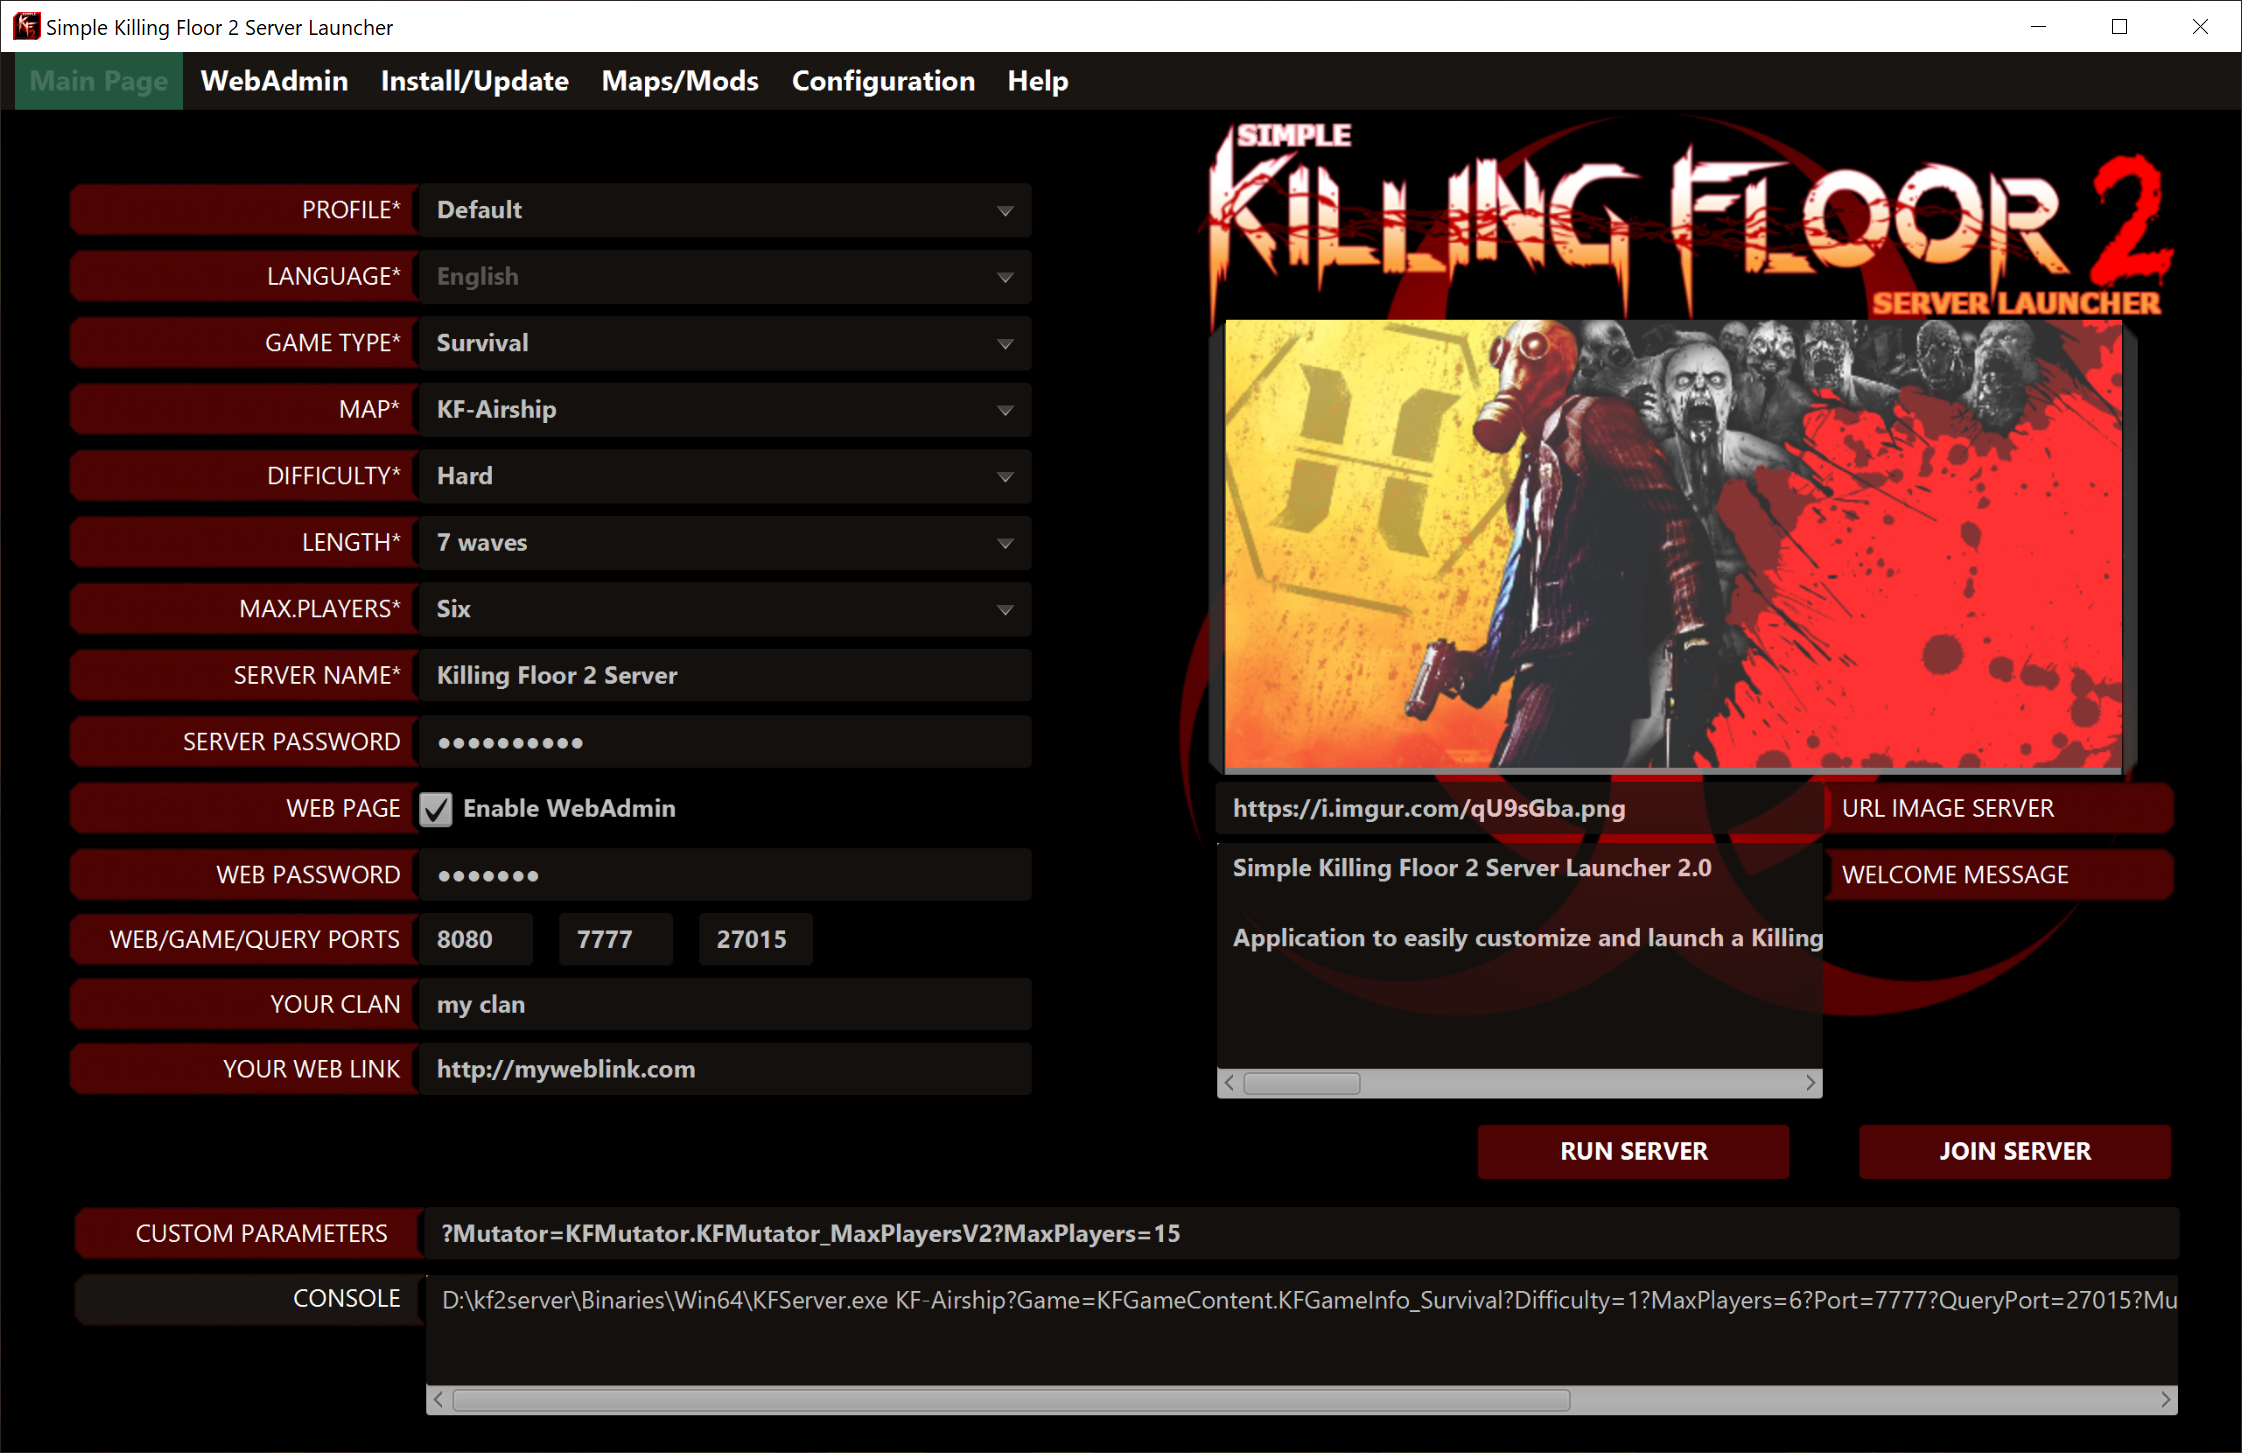
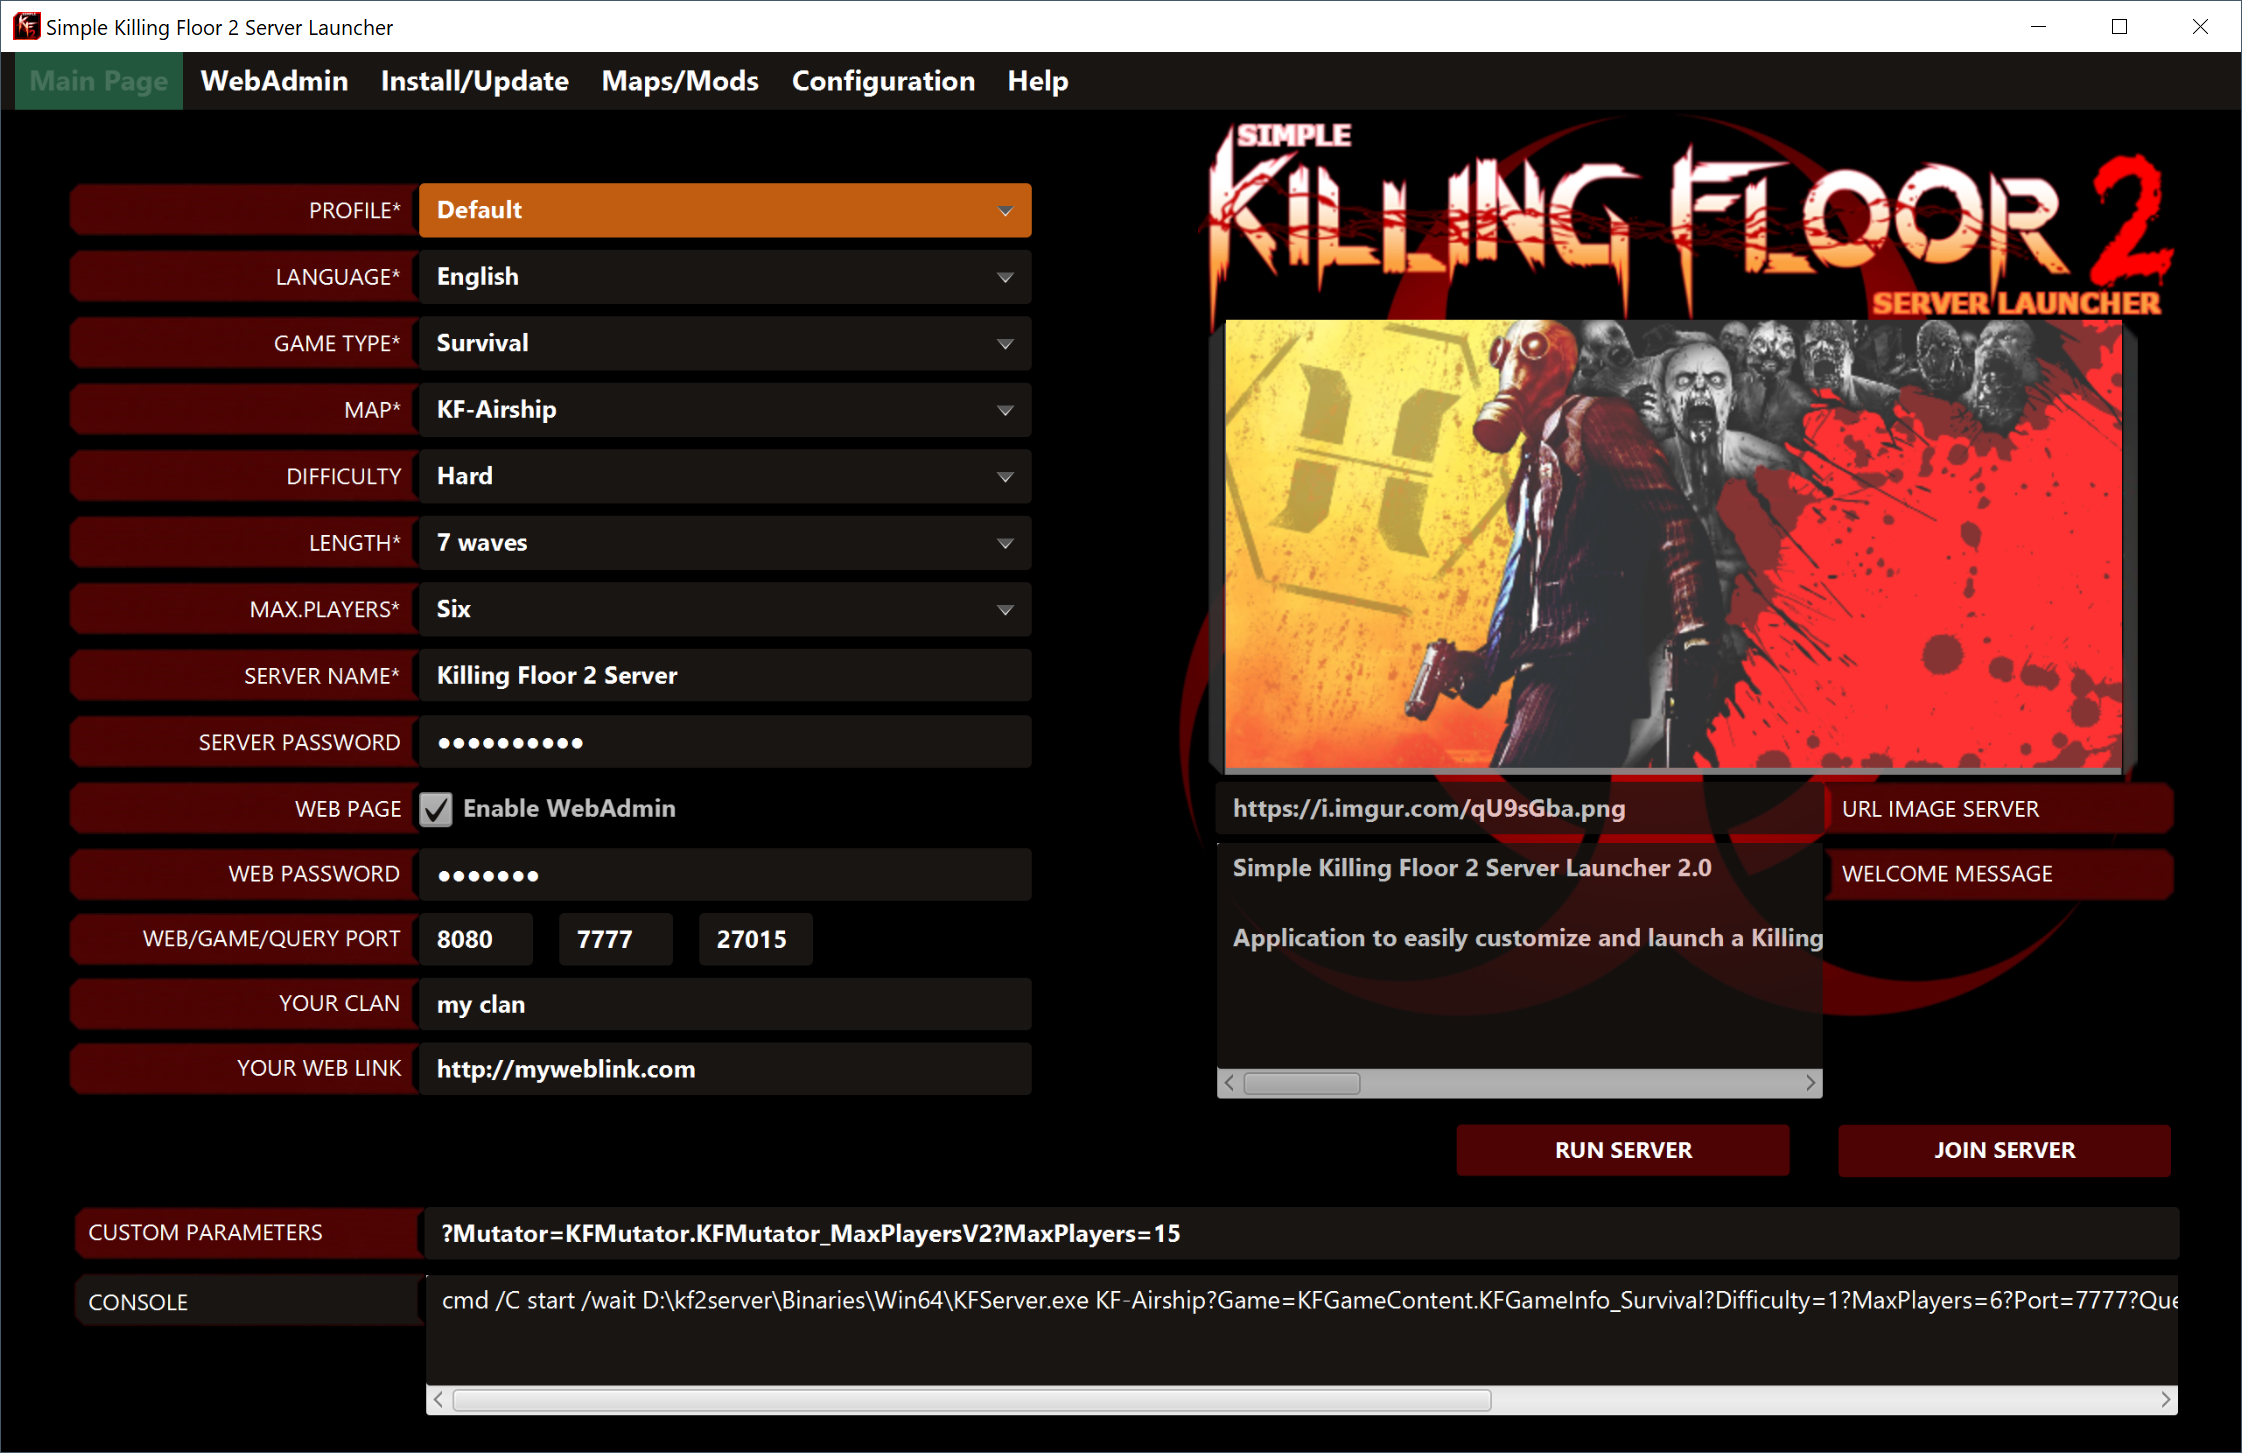
Some fixes. Updates in documentation and screenshots.

diff --git a/src/main/java/stories/profilesedition/ProfilesEditionController.java b/src/main/java/stories/profilesedition/ProfilesEditionController.java
@@ -184,23 +184,15 @@ public class ProfilesEditionController implements Initializable {
             if (selectedIndex >= 0) {
                 ProfileDto selectedProfile = profilesTable.getSelectionModel().getSelectedItem();
                 if (facade.deleteSelectedProfile(selectedProfile.getName(), installationFolder)) {
-                    profilesTable.getItems().remove(selectedIndex);
                     if (Session.getInstance().getActualProfile() != null && selectedProfile.getName().equalsIgnoreCase(Session.getInstance().getActualProfile().getName())) {
-                        if (profilesTable.getItems().size() > 0) {
-                            Session.getInstance().setActualProfile(profilesTable.getItems().get(0));
-                            propertyService.setProperty("properties/config.properties", "prop.config.lastSelectedProfile", profilesTable.getItems().get(0).getName());
-                        } else {
-                            Session.getInstance().setActualProfile(null);
-                            propertyService.removeProperty("properties/config.properties", "prop.config.lastSelectedProfile");
-                        }
+                        Session.getInstance().setActualProfile(null);
+                        propertyService.removeProperty("properties/config.properties", "prop.config.lastSelectedProfile");
                     }
                     if (Session.getInstance().getMapsProfile() != null && selectedProfile.getName().equalsIgnoreCase(Session.getInstance().getMapsProfile().getName())) {
-                        if (profilesTable.getItems().size() > 0) {
-                            Session.getInstance().setMapsProfile(profilesTable.getItems().get(0));
-                        } else {
-                            Session.getInstance().setMapsProfile(null);
-                        }
+                        Session.getInstance().setMapsProfile(null);
                     }
+
+                    profilesTable.getItems().remove(selectedIndex);
                     File profileConfigFolder = new File(facade.findPropertyValue("prop.config.installationFolder") + "/KFGame/Config/" + selectedProfile.getName());
                     FileUtils.deleteDirectory(profileConfigFolder);
                 } else {

diff --git a/src/main/java/stories/maincontent/MainContentController.java b/src/main/java/stories/maincontent/MainContentController.java
@@ -124,7 +124,7 @@ public class MainContentController implements Initializable {
             difficultySelect.setItems(facade.listAllDifficulties());
             lengthSelect.setItems(facade.listAllLengths());
             maxPlayersSelect.setItems(facade.listAllPlayers());
-            console.setText(Session.getInstance().getConsole());
+            console.setText(StringUtils.isNotBlank(Session.getInstance().getConsole())? Session.getInstance().getConsole(): "");
 
             if (profileSelect.getValue() != null) {
                 profileOnAction();
@@ -813,7 +813,7 @@ public class MainContentController implements Initializable {
             for (String profileName: selectedProfileNameList) {
                 commands.append(facade.runServer(profileName)).append("\n");
             }
-            console.setText(commands.toString());
+            console.setText(StringUtils.isNotBlank(commands.toString())? commands.toString(): "");
             Session.getInstance().setConsole(console.getText());
         } catch (Exception e) {
             logger.error(e.getMessage(), e);
@@ -842,7 +842,7 @@ public class MainContentController implements Initializable {
                 if (StringUtils.isNotBlank(commands)) {
                     commands.append("\n");
                 }
-                console.setText(console.getText() + commands.toString());
+                console.setText(StringUtils.isNotBlank(console.getText() + commands.toString())? console.getText() + commands.toString(): "");
             }
         } catch (SQLException e) {
             logger.error(e.getMessage(), e);

diff --git a/src/main/java/stories/profilesedition/ProfilesEditionFacadeImpl.java b/src/main/java/stories/profilesedition/ProfilesEditionFacadeImpl.java
@@ -84,6 +84,7 @@ public class ProfilesEditionFacadeImpl implements ProfilesEditionFacade {
         if (profileOpt.isPresent()) {
 
             List<Map> mapList = new ArrayList<Map>(profileOpt.get().getMapList());
+            profileOpt.get().setMap(null);
             profileOpt.get().getMapList().clear();
             ProfileDao.getInstance().update(profileOpt.get());
             profileOpt = ProfileDao.getInstance().findByName(profileName);
@@ -589,7 +590,6 @@ public class ProfilesEditionFacadeImpl implements ProfilesEditionFacade {
     }
 
     private boolean createNewCustomMapFromWorkshop(Map map) throws Exception {
-
         String installationFolder = propertyService.getPropertyValue("properties/config.properties", "prop.config.installationFolder");
         URL urlWorkShop = new URL(map.getUrlInfo());
         BufferedReader reader = new BufferedReader(new InputStreamReader(urlWorkShop.openStream()));
@@ -603,9 +603,7 @@ public class ProfilesEditionFacadeImpl implements ProfilesEditionFacade {
             }
         }
         reader.close();
-        String customMapLocalFolder = propertyService.getPropertyValue("properties/config.properties", "prop.config.mapCustomLocalFolder");
-        String absoluteTargetFolder = installationFolder + customMapLocalFolder;
-        Utils.downloadImageFromUrlToFile(strUrlMapImage, absoluteTargetFolder, map.getCode());
+        Utils.downloadImageFromUrlToFile(strUrlMapImage, installationFolder + map.getUrlPhoto());
         map.setMod(null);
         map.setDownloaded(false);
         Map insertedMap = MapDao.getInstance().insert(map);

diff --git a/src/main/java/stories/mapsedition/MapsEditionController.java b/src/main/java/stories/mapsedition/MapsEditionController.java
@@ -66,6 +66,7 @@ public class MapsEditionController implements Initializable {
     @FXML private Label sliderLabel;
     @FXML private ImageView searchImg;
     @FXML private ComboBox<ProfileDto> profileSelect;
+    @FXML private Label profileLabel;
 
     public MapsEditionController() {
         super();
@@ -79,6 +80,9 @@ public class MapsEditionController implements Initializable {
             languageCode = propertyService.getPropertyValue("properties/config.properties", "prop.config.selectedLanguageCode");
             selectMaps = true;
             installationFolder = facade.findConfigPropertyValue("prop.config.installationFolder");
+
+            String profileLabelText = propertyService.getPropertyValue("properties/languages/" + languageCode + ".properties", "prop.label.profileLowercase");
+            profileLabel.setText(profileLabelText);
 
             ObservableList<ProfileDto> profileOptions = facade.listAllProfiles();
             profileSelect.setItems(profileOptions);

diff --git a/src/main/java/utils/Utils.java b/src/main/java/utils/Utils.java
@@ -426,4 +426,11 @@ public class Utils {
         FileUtils.copyURLToFile(urlImage,file);
         return file;
     }
+
+    public static File downloadImageFromUrlToFile(String strUrlImage, String pathToFile) throws IOException {
+        URL urlImage = new URL(strUrlImage);
+        File file = new File(pathToFile);
+        FileUtils.copyURLToFile(urlImage,file);
+        return file;
+    }
 }

diff --git a/LEEME.md b/LEEME.md
@@ -35,7 +35,7 @@ Aplicación para personalizar y lanzar fácilmente un servidor de Killing Floor 
 ## Caracteristicas
 
 ```
-Versión: 2.0 release candidate
+Versión: 2.0 final
 S.O. soportados: Microsoft Windows y Linux (Ubuntu/Debian)
 Autor: César Rodríguez González
 Idiomas: Inglés, Español

diff --git a/README.md b/README.md
@@ -35,7 +35,7 @@ Application to easily customize and launch a Killing Floor 2 server through a vi
 ## Features
 
 ```
-Version: 2.0 release candidate
+Version: 2.0 final
 Supported OS: Microsoft Windows and Linux (Ubuntu/Debian)
 Author: César Rodríguez González
 Languages: English, Spanish
